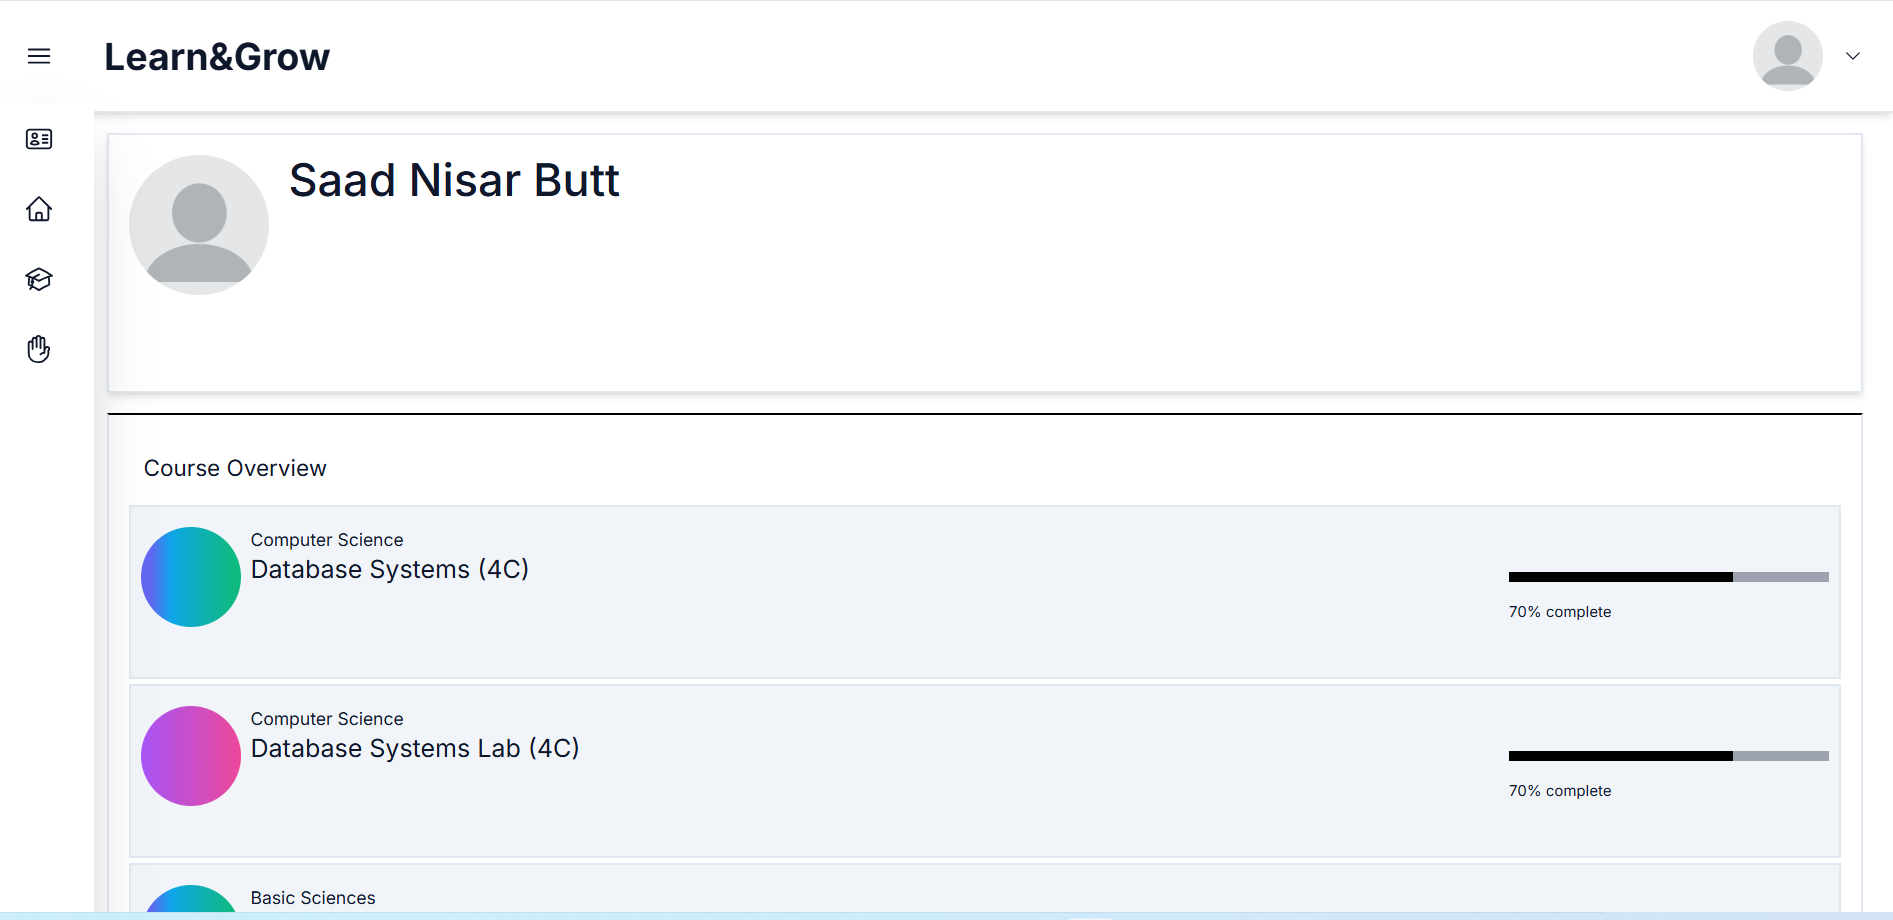
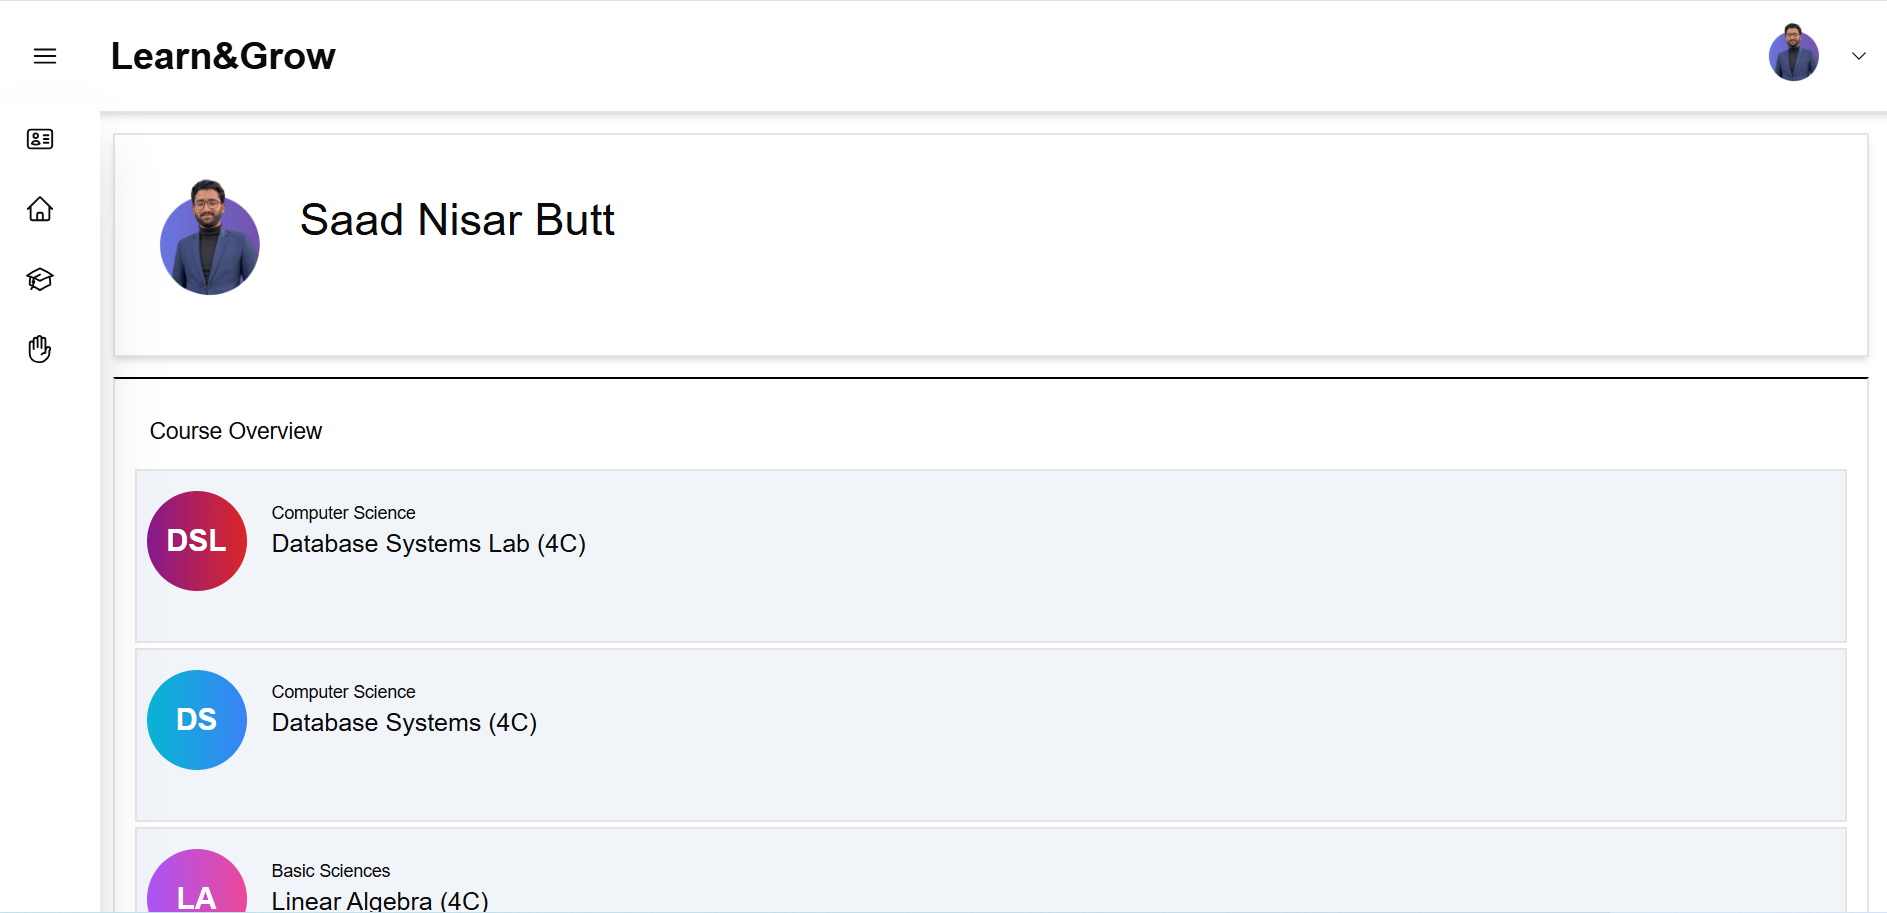
Porjects updated, removed my skills section

diff --git a/src/lib/projects.ts b/src/lib/projects.ts
@@ -1,6 +1,7 @@
+import LMS from "../../public/projects/lms.png";
 import Qalaakar from "../../public/projects/qalaakar.png";
 import VehicleTracker from "../../public/projects/vehicle-tracker.png";
-import LMS from "../../public/projects/lms.png";
+// import LMS from "../../public/projects/lms.png";
 import Ecommerce from "../../public/projects/ecommerce.png";
 import NextJSBlog from "../../public/projects/nextjsblog.png";
 import PanaverseDAO from "../../public/projects/panaversedao.png";
@@ -11,10 +12,30 @@ import CafeStreet from "../../public/projects/cafestreet.png";
 
 export const Projects = [
   {
+    imgSrc: LMS,
+    altText: "Learning Management System (Group Project)",
+    href: "https://learning-management-system-beta.vercel.app/",
+    title: "Learning Management System (Group Project)",
+    techStack: [
+      "Next.JS",
+      "Typescript",
+      "TailwindCSS",
+      "ShadcnUI",
+      "Neon Postgres Database",
+      "REST APIs",
+      "JWT. NextAuth",
+      "AWS S3",
+      "------------------",
+      "------------------",
+      "Student Login: Id: st246, Password: Saad211246",
+      "Teacher Login: Id: tc005, Password: Soohan005"
+    ],
+  },
+  {
     imgSrc: Qalaakar,
     altText: "Qalaakar (Client Project)",
     href: "https://qalaakar.com/",
-    title: "Qalaakar",
+    title: "Qalaakar (Client Project)",
     techStack: [
       "Next.JS",
       "Typescript",
@@ -41,20 +62,20 @@ export const Projects = [
       "OpenStreet Maps API",
     ],
   },
-  {
-    imgSrc: LMS,
-    altText: "LMS",
-    href: "https://github.com/saadbutt27/LMS",
-    title: "Learn&Grom (Learning Mangement System)",
-    techStack: [
-      "Next.JS",
-      "Typescript",
-      "TailwindCSS",
-      "NextAuth and JWT authentication",
-      "Rest APIs",
-      "MySQL Database",
-    ],
-  },
+  // {
+  //   imgSrc: LMS,
+  //   altText: "LMS",
+  //   href: "https://github.com/saadbutt27/LMS",
+  //   title: "Learn&Grom (Learning Mangement System)",
+  //   techStack: [
+  //     "Next.JS",
+  //     "Typescript",
+  //     "TailwindCSS",
+  //     "NextAuth and JWT authentication",
+  //     "Rest APIs",
+  //     "MySQL Database",
+  //   ],
+  // },
   {
     imgSrc: Ecommerce,
     altText: "Ecomerce Website",

diff --git a/src/components/layout/Header.tsx b/src/components/layout/Header.tsx
@@ -24,11 +24,11 @@ const Header = () => {
                     About
                   </a>
                 </li>
-                <li className="inline-block before:duration-300 before:content-[''] before:absolute before:opacity-0 before:bg-white before:h-0 before:w-20 before:-bottom-6 before:left-40 hover:before:h-1 hover:before:opacity-100">
+                {/* <li className="inline-block before:duration-300 before:content-[''] before:absolute before:opacity-0 before:bg-white before:h-0 before:w-20 before:-bottom-6 before:left-40 hover:before:h-1 hover:before:opacity-100">
                   <a href="#skills" className="ml-8">
                     Skills
                   </a>
-                </li>
+                </li> */}
                 <li className="inline-block before:duration-300 before:content-[''] before:absolute before:opacity-0 before:bg-white before:h-0 before:w-24 before:-bottom-6 before:left-[15.5rem] hover:before:h-1 hover:before:opacity-100">
                   <a href="#projects" className="ml-8">
                     Projects

diff --git a/src/components/layout/Footer.tsx b/src/components/layout/Footer.tsx
@@ -7,8 +7,8 @@ const Footer = () => {
         <Wrapper>
           <div className="grid grid-rows-2 grid-cols-1 md:grid-cols-2 md:grid-rows-1">
             <div className="text-white text-lg font-semibold whitespace-pre-line">
-              Built by Saad Nisar Butt <br />
-              All rights are reserved. &#169; 2023.
+              Created by Saad Nisar Butt <br />
+              All rights are reserved. &#169; 2025.
             </div>
             <div className="flex justify-start md:justify-end">
               <a

diff --git a/src/app/page.tsx b/src/app/page.tsx
@@ -11,7 +11,7 @@ export default function Home() {
       <HeroSection />
       <AboutSection />
       <EducationSection />
-      <SkillsSection />
+      {/* <SkillsSection /> */}
       <ProjectsSection />
       <ContactSection/>
     </>
